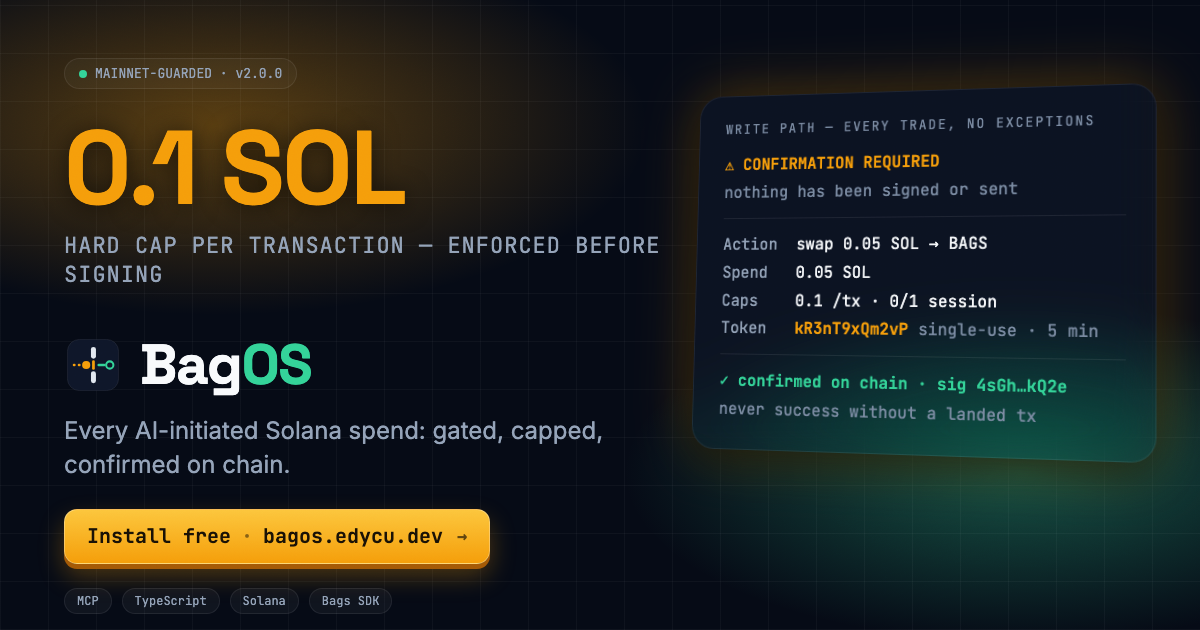
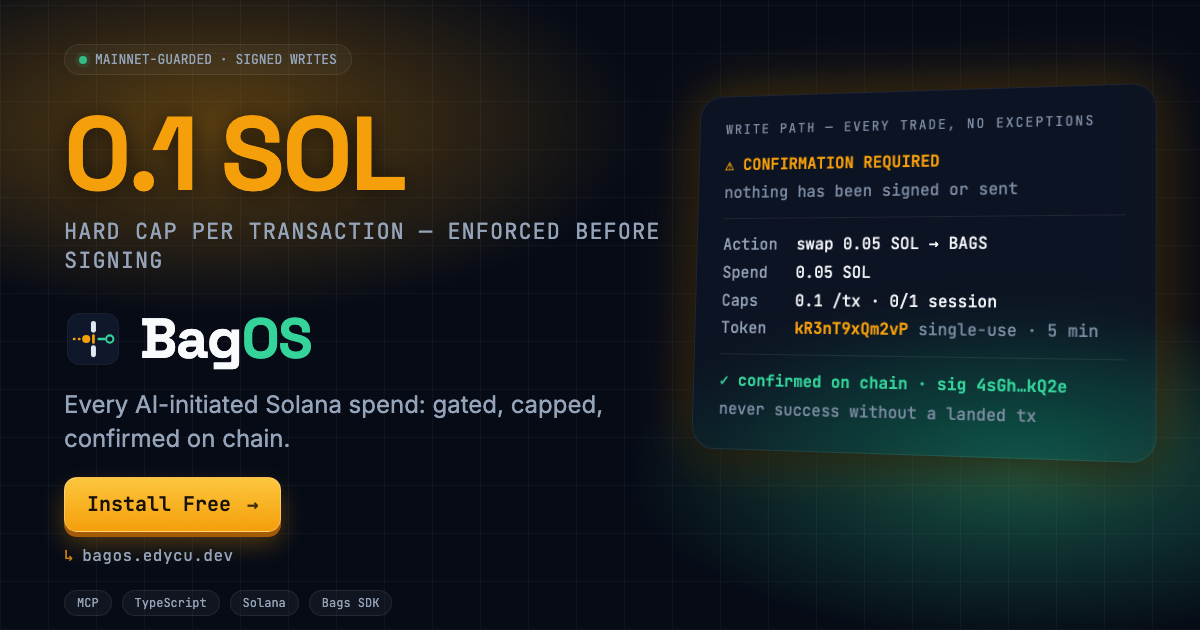
docs(site): refresh the OG card — "Install Free →" button, domain label, cache-bust
The deployed card predated its own CTA and still showed a stale "v2.0.0" badge, so
opengraph.xyz reported no call-to-action.

- The CTA is now a clean verb button, "Install Free →", with the destination
  (bagos.edycu.dev) as a label beneath it rather than crammed inside the button —
  reads as a button to a human and to a card scanner.
- Badge no longer hardcodes a version (was v2.0.0 while npm is on 3.0.3);
  "MAINNET-GUARDED · SIGNED WRITES" instead, so it can't go stale again.
- Tightened the left column so the tech-stack pills still fit under the new label.
- og:image / twitter:image get ?v=20260924 so X / Discord / Slack re-scrape the new
  card instead of serving the cached old one.

diff --git a/site/src/index.html b/site/src/index.html
@@ -26,7 +26,7 @@
   <meta property="og:title" content="BagOS — gated Solana spending for AI agents">
   <meta property="og:description" content="The first call to a write tool signs nothing. It returns a preview and a single-use token bound to the exact arguments.">
   <meta property="og:url" content="https://bagos.edycu.dev/">
-  <meta property="og:image" content="https://bagos.edycu.dev/og-image.png">
+  <meta property="og:image" content="https://bagos.edycu.dev/og-image.png?v=20260924">
   <meta property="og:image:width" content="1200">
   <meta property="og:image:height" content="630">
   <meta property="og:image:alt" content="BagOS — the gate pipeline: token gate, spend caps, confirmation, simulate, sign, send, confirm">
@@ -35,7 +35,7 @@
   <meta name="twitter:card" content="summary_large_image">
   <meta name="twitter:title" content="BagOS — gated Solana spending for AI agents">
   <meta name="twitter:description" content="The first write call signs nothing — preview plus a single-use token bound to the exact arguments. Hard SOL caps.">
-  <meta name="twitter:image" content="https://bagos.edycu.dev/og-image.png">
+  <meta name="twitter:image" content="https://bagos.edycu.dev/og-image.png?v=20260924">
   <meta name="twitter:image:alt" content="BagOS — the gate pipeline: token gate, spend caps, confirmation, simulate, sign, send, confirm">
 
   <!-- Structured data -->
@@ -47,7 +47,7 @@
     "alternateName": "bagos-mcp-server",
     "description": "MCP server for Bags on Solana: token analytics, trade quotes, and gated write operations. Every AI-initiated spend is gated, capped, and confirmed on chain.",
     "url": "https://bagos.edycu.dev/",
-    "image": "https://bagos.edycu.dev/og-image.png",
+    "image": "https://bagos.edycu.dev/og-image.png?v=20260924",
     "applicationCategory": "DeveloperApplication",
     "operatingSystem": "macOS, Windows, Linux",
     "softwareVersion": "__V__",

diff --git a/site/src/deck/index.html b/site/src/deck/index.html
@@ -26,7 +26,7 @@
   <meta property="og:title" content="BagOS — Pitch Deck">
   <meta property="og:description" content="Every AI-initiated Solana spend: gated, capped, confirmed on chain. The product deck.">
   <meta property="og:url" content="https://bagos.edycu.dev/deck/">
-  <meta property="og:image" content="https://bagos.edycu.dev/og-image.png">
+  <meta property="og:image" content="https://bagos.edycu.dev/og-image.png?v=20260924">
   <meta property="og:image:width" content="1200">
   <meta property="og:image:height" content="630">
   <meta property="og:image:alt" content="BagOS — the gate pipeline: token gate, spend caps, confirmation, simulate, sign, send, confirm">
@@ -35,7 +35,7 @@
   <meta name="twitter:card" content="summary_large_image">
   <meta name="twitter:title" content="BagOS — Pitch Deck">
   <meta name="twitter:description" content="Every AI-initiated Solana spend: gated, capped, confirmed on chain. The product deck.">
-  <meta name="twitter:image" content="https://bagos.edycu.dev/og-image.png">
+  <meta name="twitter:image" content="https://bagos.edycu.dev/og-image.png?v=20260924">
   <meta name="twitter:image:alt" content="BagOS — the gate pipeline: token gate, spend caps, confirmation, simulate, sign, send, confirm">
 
   <style>
